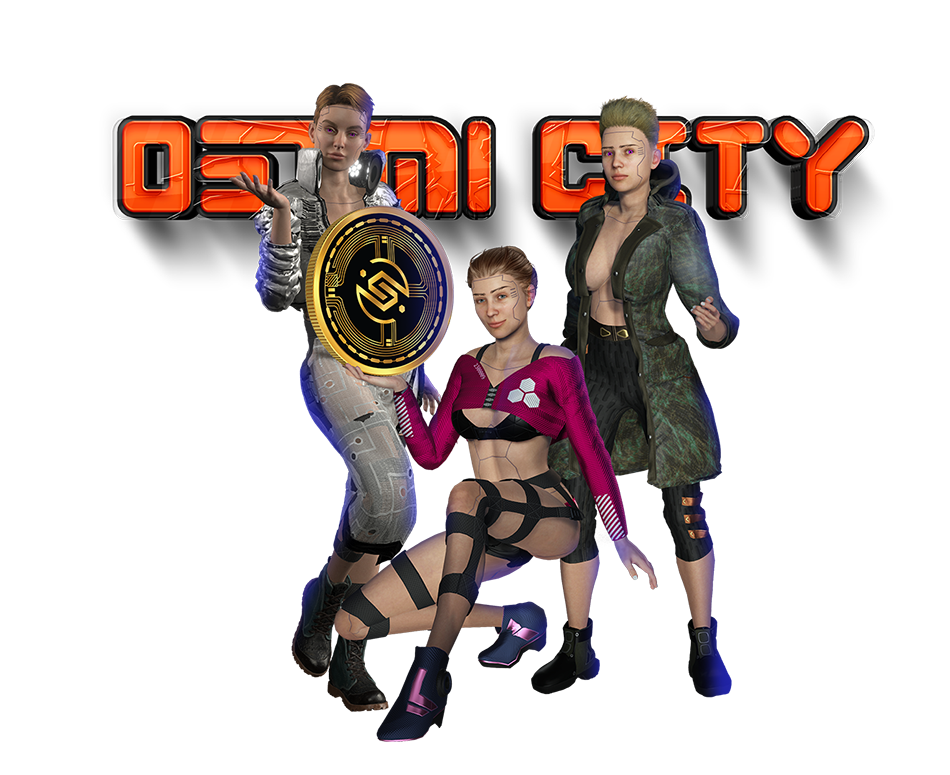
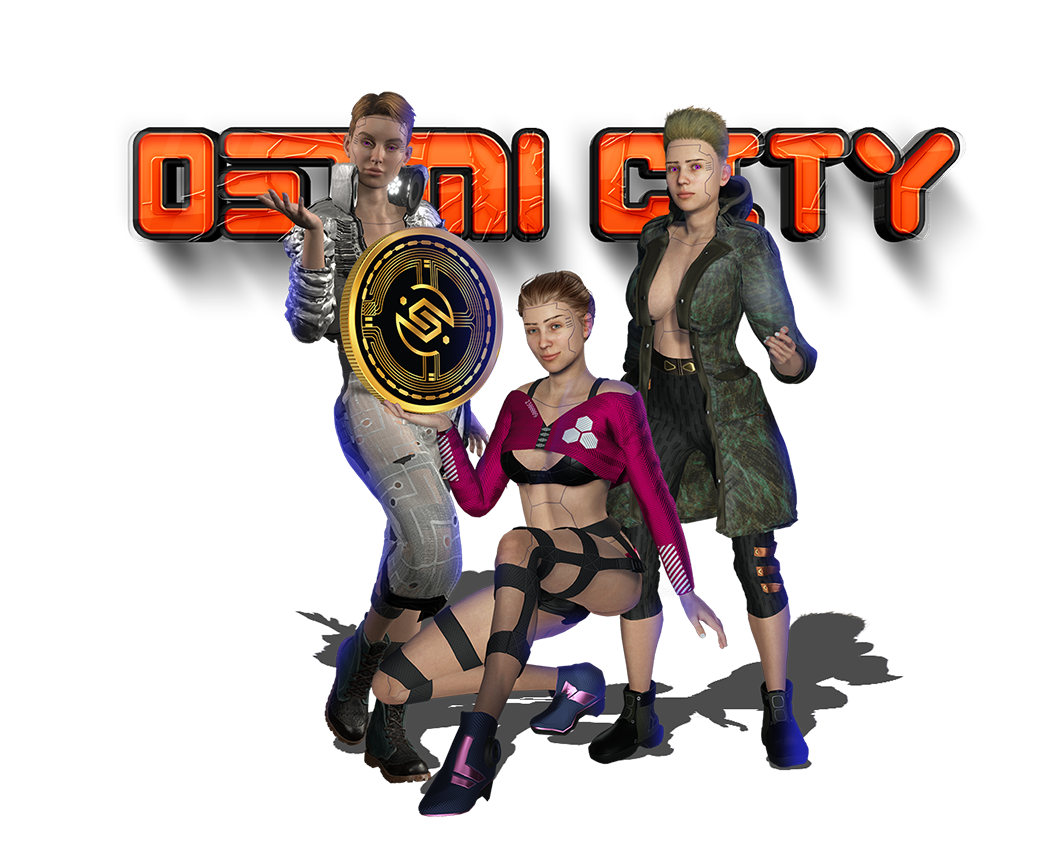
up

Changed region(s): [[0.0916, 0.0929, 0.9158, 0.96]]

diff --git a/index.html b/index.html
@@ -30,7 +30,7 @@
     <!-- AOS library -->
     <!-- <link rel="stylesheet" href="https://unpkg.com/aos@next/dist/aos.css?v=1" /> -->
 
-    <link rel="stylesheet" href="./assets/css/main.css?v=57"/>
+    <link rel="stylesheet" href="./assets/css/main.css?v=58"/>
 
     <link rel="stylesheet" href="./assets/vendor/animate/animate.css" />
     <link rel="stylesheet" href="./assets/css/loader.css?v=14">
@@ -748,7 +748,7 @@
             <div class="list-item">
               <div class="boxed-img">
                 <img src="./assets/images/story/story-bg3.jpg" alt="">
-                <img src="./assets/images/story/character-slide3.png" alt="" class="character3">
+                <img src="./assets/images/story/character-slide3.png?v=2" alt="" class="character3">
               </div>
               <div class="boxed-content">
                

diff --git a/assets/sass/_story.scss b/assets/sass/_story.scss
@@ -49,7 +49,7 @@
           right: 0;
           bottom: 0;
           object-fit: contain;
-          transform: translateX(0%);
+          transform: translateX(-15%);
         }
         .character4 {
           position: absolute;
